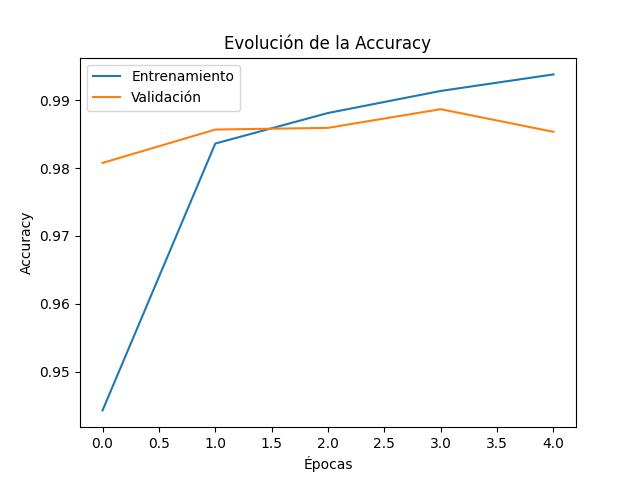
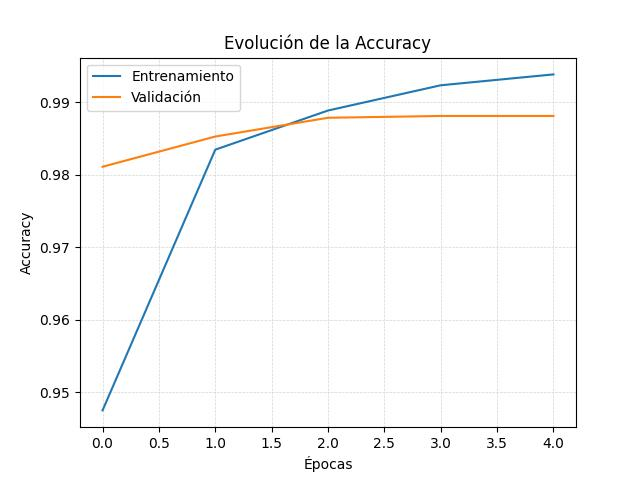
chore: commit save point

diff --git a/src/functions.py b/src/functions.py
@@ -40,6 +40,7 @@ def plot_training_history(history):
     plt.xlabel('Épocas')
     plt.ylabel('Accuracy')
     plt.legend()
+    plt.grid(color='lightgray', linestyle='--', linewidth=0.5)  # Añade grid
     plt.savefig('img/accuracy.jpg')
     plt.show()
 
@@ -50,6 +51,7 @@ def plot_training_history(history):
     plt.xlabel('Épocas')
     plt.ylabel('Loss')
     plt.legend()
+    plt.grid(color='lightgray', linestyle='--', linewidth=0.5)  # Añade grid
     plt.show()
 
 def plot_confusion_matrix(model, X_test, y_test):

diff --git a/README.md b/README.md
@@ -4,6 +4,12 @@
 
 **Deep Vision** is a “Hello World” project in deep learning, focused on **building a Convolutional Neural Network (CNN)** to classify handwritten digits using the **MNIST** dataset. Perfect for beginners who want to explore computer vision techniques with a straightforward yet impactful example.
 
+### Misclassified Samples
+
+Here are some examples of misclassified digits:
+
+![Misclassified Samples](img/misclassified_samples.jpg)
+
 ## 🎯 Features
 
 - **Data Loading & Preprocessing:** Quickly load MNIST data and normalize pixel values.
@@ -57,12 +63,6 @@ Below is the accuracy evolution during training and validation:
 The confusion matrix for the MNIST test set is shown below:
 
 ![Confusion Matrix](img/confusion_matrix.jpg)
-
-### Misclassified Samples
-
-Here are some examples of misclassified digits:
-
-![Misclassified Samples](img/misclassified_samples.jpg)
 
 ## 🤝 Contributing
 
